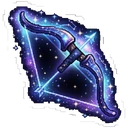
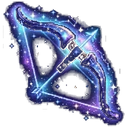
별자리 활 그림 안쪽의 어두운 밤하늘 바탕을 밝기만큼 비치게 해 지운다
Claude-Session: https://claude.ai/code/session_01Gwv45QP5Hv2erexXEgws5m

diff --git a/src/game/updates.js b/src/game/updates.js
@@ -6,6 +6,13 @@ export const RPG_NOTICE = { id: "2026-10-36", notes: ["2026-10-36", "2026-10-35"
 
 export const UPDATES = [
   {
+    id: "2026-10-43",
+    date: "10월 16일",
+    items: [
+      "별자리 활 안쪽의 검은 바탕을 지웠습니다.",
+    ],
+  },
+  {
     id: "2026-10-42",
     date: "10월 16일",
     items: [

diff --git a/tools/cut-weapons.py b/tools/cut-weapons.py
@@ -26,6 +26,8 @@ GLOW = {"thunder": 18, "forest": 18, "frost": 18, "holy": 18,   # 빛이 번진 
         "lava_bow": 18, "gold_bow": 18, "shadow_bow": 18, "thunder_bow": 18}
 # 흰 바탕 둘레에 검은 띠(그림자 · 구름)가 붙은 그림 — 흰 바탕과 이어진 검은 곳까지 바탕으로 본다
 DARK_RIM = {"thunder_staff", "star_bow"}
+# 활 안쪽에 어두운 바탕(밤하늘)이 칠해진 그림 — 어두운 곳은 밝기만큼만 남겨 별 · 활대 · 활줄만 보이게 한다. (완전히 지울 밝기, 다 남길 밝기)
+DARK_FILL = {"star_bow": (34, 80)}
 # 액자 그림 — 잘라 낼 바깥 폭(px)과 액자 안 바탕
 FRAME = {"holy": (44, "black"), "ice_staff": (68, "black"), "skull_staff": (58, "white"), "gold_bow": (112, "black")}
 
@@ -87,6 +89,10 @@ def cut(i):
         k = band & (a > 0.02)
         for c in range(3):
             rgb[..., c][k] = np.clip(im[..., c][k] / np.maximum(mx[k] / 110, 0.05), 0, 255)
+    if i in DARK_FILL:
+        lo, hi = DARK_FILL[i]
+        a = np.minimum(a, np.clip((mx - lo) / (hi - lo), 0, 1))   # 색은 그대로 두고 비침만 — 밝히면 활대가 바랜다
+        a[(sat < 22) & (mx > 105) & (mx < 215)] = 0   # 바깥의 흐린 회색 선 찌꺼기 — 흰 별(더 밝다)은 남긴다
     # 워터마크 별 · 떨어진 티끌 — 오른쪽 아래 구석의 작은 덩어리를 지운다
     lab, n = nd.label(a > 0.05)
     H, W = a.shape
